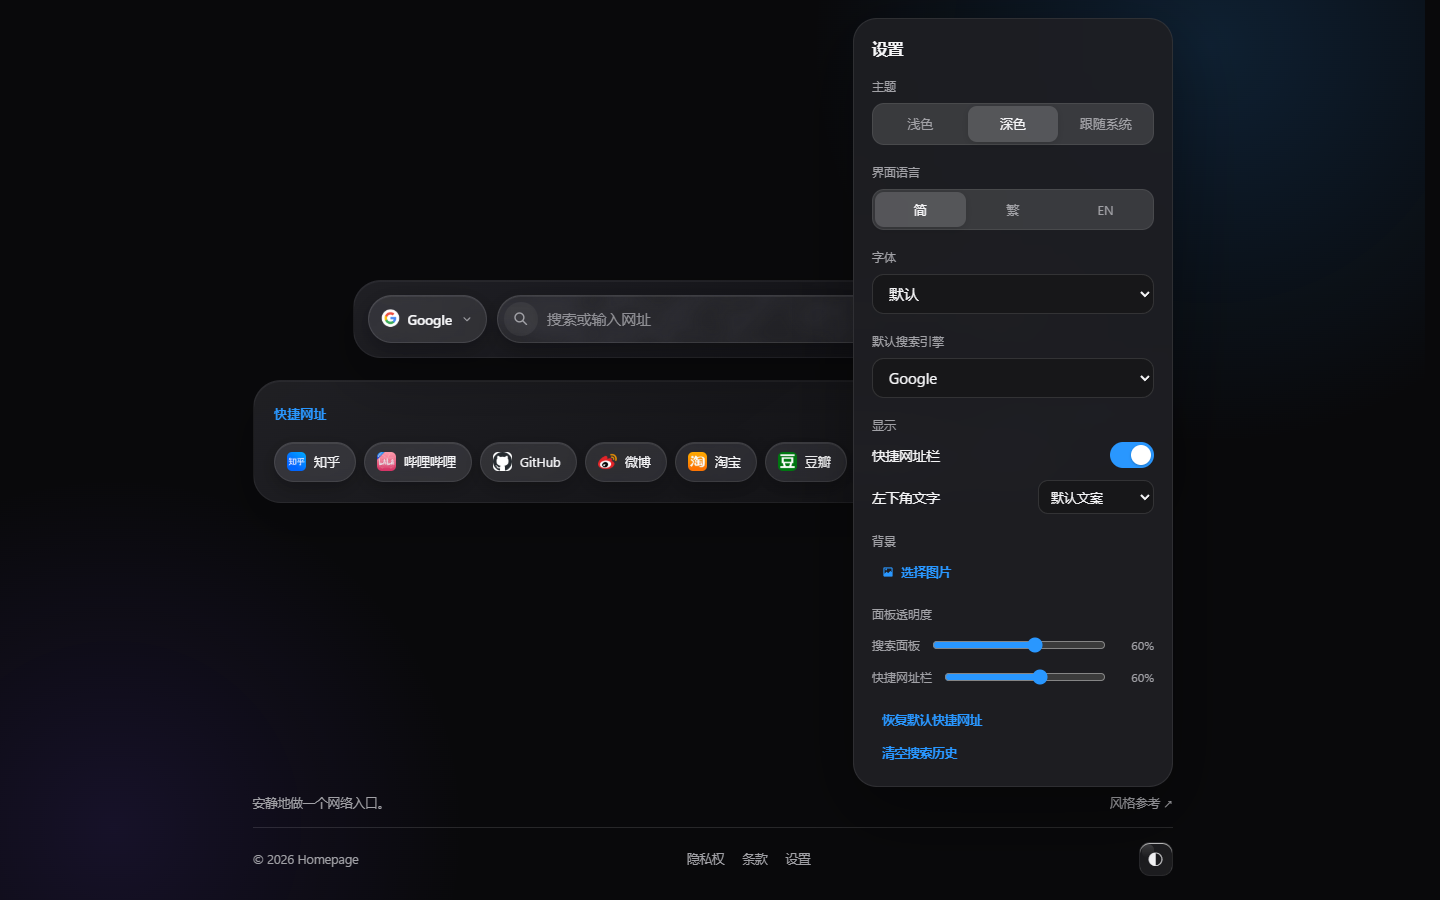
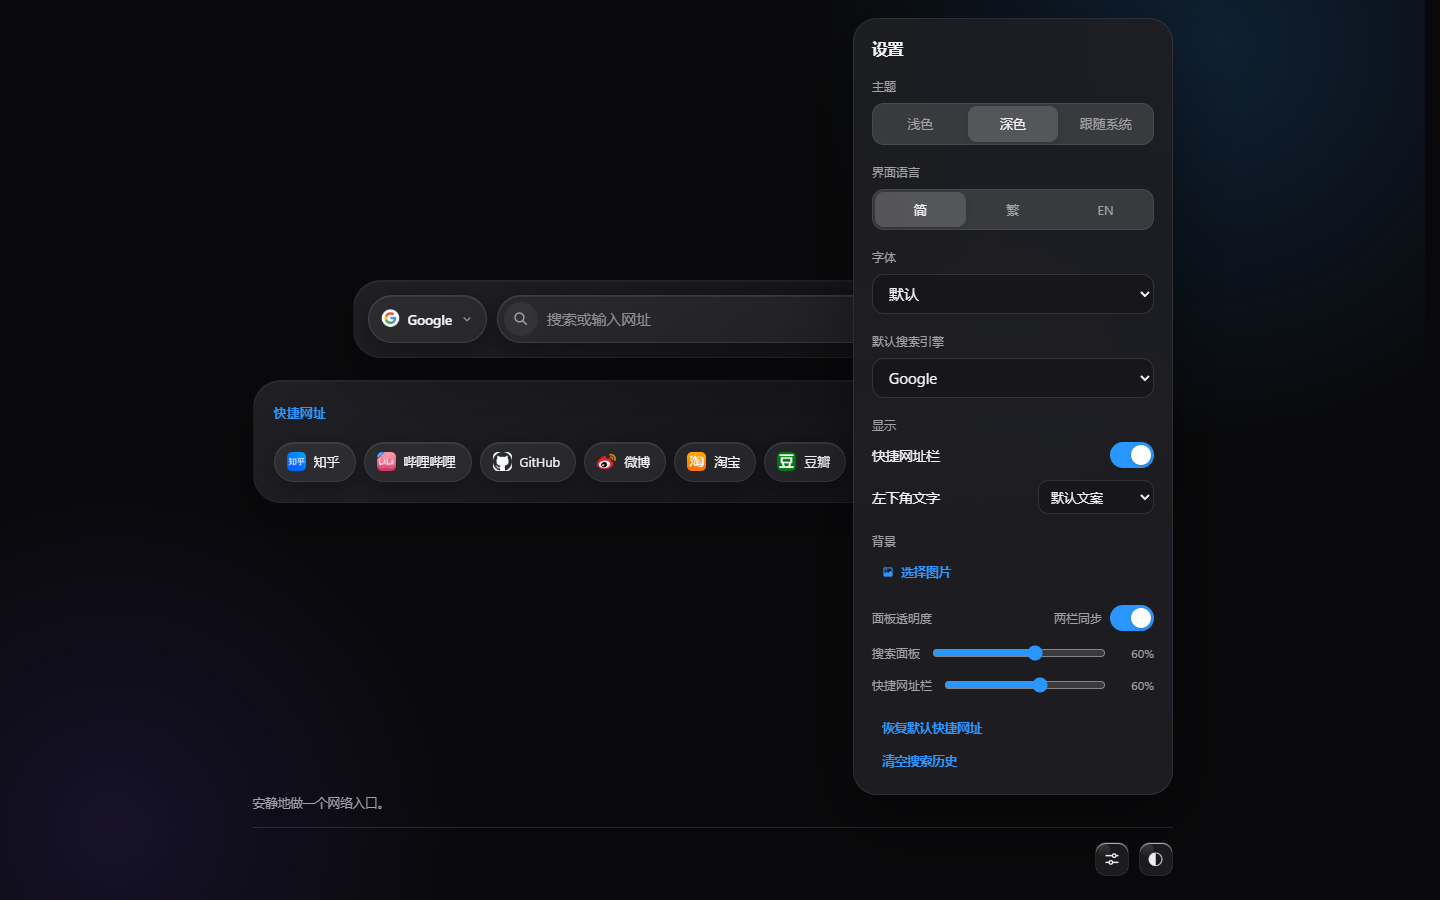
面板透明度：新增「两栏同步」开关
设置面板的「面板透明度」标题右侧加了一个开关：
- 打开后，拖任意一个滑块，两个滑块一起走（打开时以搜索面板当前值为基准对齐）
- 关掉则各调各的，恢复原来的独立行为
- 状态存在 localStorage（hp.opacitySync），下次打开保持

已用探针脚本验证全流程：独立 -> 同步 -> 拖动联动 -> 解除同步，localStorage 写入正确。

diff --git a/app.js b/app.js
@@ -146,7 +146,7 @@
       'settings.background': '背景', 'settings.bgPick': '选择图片',
       'settings.bgClear': '清除背景', 'settings.bgDim': '淡化',
       'settings.opacity': '面板透明度', 'settings.opacitySearch': '搜索面板',
-      'settings.opacityLinks': '快捷网址栏',
+      'settings.opacityLinks': '快捷网址栏', 'settings.opacitySync': '两栏同步',
       'settings.resetLinks': '恢复默认快捷网址',
       'settings.clearHistory': '清空搜索历史',
       'dialog.addTitle': '添加快捷网址', 'dialog.editTitle': '编辑快捷网址',
@@ -187,7 +187,7 @@
       'settings.background': '背景', 'settings.bgPick': '選擇圖片',
       'settings.bgClear': '清除背景', 'settings.bgDim': '淡化',
       'settings.opacity': '面板透明度', 'settings.opacitySearch': '搜尋面板',
-      'settings.opacityLinks': '捷徑列',
+      'settings.opacityLinks': '捷徑列', 'settings.opacitySync': '兩欄同步',
       'settings.resetLinks': '還原預設捷徑',
       'settings.clearHistory': '清除搜尋記錄',
       'dialog.addTitle': '新增捷徑', 'dialog.editTitle': '編輯捷徑',
@@ -228,7 +228,7 @@
       'settings.background': 'Background', 'settings.bgPick': 'Choose image',
       'settings.bgClear': 'Clear background', 'settings.bgDim': 'Dim',
       'settings.opacity': 'Panel opacity', 'settings.opacitySearch': 'Search panel',
-      'settings.opacityLinks': 'Shortcuts panel',
+      'settings.opacityLinks': 'Shortcuts panel', 'settings.opacitySync': 'Link both',
       'settings.resetLinks': 'Restore default shortcuts',
       'settings.clearHistory': 'Clear search history',
       'dialog.addTitle': 'Add shortcut', 'dialog.editTitle': 'Edit shortcut',
@@ -263,7 +263,7 @@
     theme: 'hp.theme', engine: 'hp.engine', links: 'hp.links', history: 'hp.history',
     lang: 'hp.lang', showLinks: 'hp.showLinks', bg: 'hp.bg', bgDim: 'hp.bgDim',
     footerMode: 'hp.footerMode', font: 'hp.font',
-    opacitySearch: 'hp.opacitySearch', opacityLinks: 'hp.opacityLinks'
+    opacitySearch: 'hp.opacitySearch', opacityLinks: 'hp.opacityLinks', opacitySync: 'hp.opacitySync'
   };
 
   const store = {
@@ -304,6 +304,7 @@
       ? store.get(KEY.font, 'default') : 'default',
     opacitySearch: readPercent(KEY.opacitySearch),
     opacityLinks: readPercent(KEY.opacityLinks),
+    opacitySync: store.get(KEY.opacitySync, false) === true,
     foodRoll: 0,
     editing: false,
     images: false,
@@ -346,7 +347,7 @@
     bgPickBtn: $('bgPickBtn'), bgClearBtn: $('bgClearBtn'), bgFile: $('bgFile'),
     bgDimRow: $('bgDimRow'), bgDim: $('bgDim'), bgDimOut: $('bgDimOut'),
     opacitySearch: $('opacitySearch'), opacityLinks: $('opacityLinks'),
-    opacitySearchOut: $('opacitySearchOut'), opacityLinksOut: $('opacityLinksOut'),
+    opacitySearchOut: $('opacitySearchOut'), opacityLinksOut: $('opacityLinksOut'), opacitySync: $('opacitySync'),
     resetLinksBtn: $('resetLinksBtn'), clearHistoryBtn: $('clearHistoryBtn'),
     toast: $('toast'), currentYear: $('currentYear'),
     modal: $('linkModal'), linkForm: $('linkForm'), linkName: $('linkName'), linkUrl: $('linkUrl'),
@@ -1020,17 +1021,48 @@
     el.opacityLinks.value = String(panel);
     el.opacitySearchOut.textContent = card + '%';
     el.opacityLinksOut.textContent = panel + '%';
+    el.opacitySync.setAttribute('aria-checked', String(state.opacitySync));
+  }
+
+  /** 同步打开时，两个滑块始终保持同一个值 */
+  function setBothOpacity(value) {
+    state.opacitySearch = value;
+    store.set(KEY.opacitySearch, value);
+    if (state.opacitySync) {
+      state.opacityLinks = value;
+      store.set(KEY.opacityLinks, value);
+    }
+    applyOpacity();
   }
 
   el.opacitySearch.addEventListener('input', () => {
-    state.opacitySearch = Number(el.opacitySearch.value);
-    store.set(KEY.opacitySearch, state.opacitySearch);
-    applyOpacity();
+    setBothOpacity(Number(el.opacitySearch.value));
   });
 
   el.opacityLinks.addEventListener('input', () => {
-    state.opacityLinks = Number(el.opacityLinks.value);
-    store.set(KEY.opacityLinks, state.opacityLinks);
+    const value = Number(el.opacityLinks.value);
+    state.opacityLinks = value;
+    store.set(KEY.opacityLinks, value);
+    if (state.opacitySync) {
+      state.opacitySearch = value;
+      store.set(KEY.opacitySearch, value);
+    }
+    applyOpacity();
+  });
+
+  // 「两栏同步」开关：打开时以搜索面板当前的值作为基准，把两个滑块对齐
+  el.opacitySync.addEventListener('click', () => {
+    state.opacitySync = !state.opacitySync;
+    store.set(KEY.opacitySync, state.opacitySync);
+
+    if (state.opacitySync) {
+      const fallback = state.bg ? 75 : 60;
+      const base = state.opacitySearch === null ? fallback : state.opacitySearch;
+      state.opacitySearch = base;
+      state.opacityLinks = base;
+      store.set(KEY.opacitySearch, base);
+      store.set(KEY.opacityLinks, base);
+    }
     applyOpacity();
   });
 

diff --git a/index.html b/index.html
@@ -87,7 +87,15 @@
   </section>
 
   <section class="setting">
-    <p class="setting__label" data-i18n="settings.opacity">面板透明度</p>
+    <div class="setting__head">
+      <p class="setting__label" data-i18n="settings.opacity">面板透明度</p>
+      <div class="setting__toggle">
+        <span data-i18n="settings.opacitySync">两栏同步</span>
+        <button type="button" class="switch" id="opacitySync" role="switch" aria-checked="false" data-i18n-aria="settings.opacitySync" data-i18n-title="settings.opacitySync">
+          <span class="switch__knob" aria-hidden="true"></span>
+        </button>
+      </div>
+    </div>
     <label class="slider-row">
       <span data-i18n="settings.opacitySearch">搜索面板</span>
       <input type="range" id="opacitySearch" min="0" max="100" step="5" value="60">

diff --git a/styles.css b/styles.css
@@ -293,6 +293,23 @@ svg { display: block; }
 
 .setting { margin-bottom: 18px; }
 .setting__label { margin: 0 0 8px; font-size: 12px; color: var(--muted); }
+
+/* 小节标题右侧带开关（例如「面板透明度 / 两栏同步」） */
+.setting__head {
+  display: flex;
+  align-items: center;
+  justify-content: space-between;
+  gap: 10px;
+  margin-bottom: 8px;
+}
+.setting__head .setting__label { margin: 0; }
+.setting__toggle {
+  display: flex;
+  align-items: center;
+  gap: 8px;
+  font-size: 12px;
+  color: var(--muted);
+}
 .setting--actions { display: flex; flex-direction: column; align-items: flex-start; gap: 2px; margin-bottom: 0; }
 
 .segmented {
